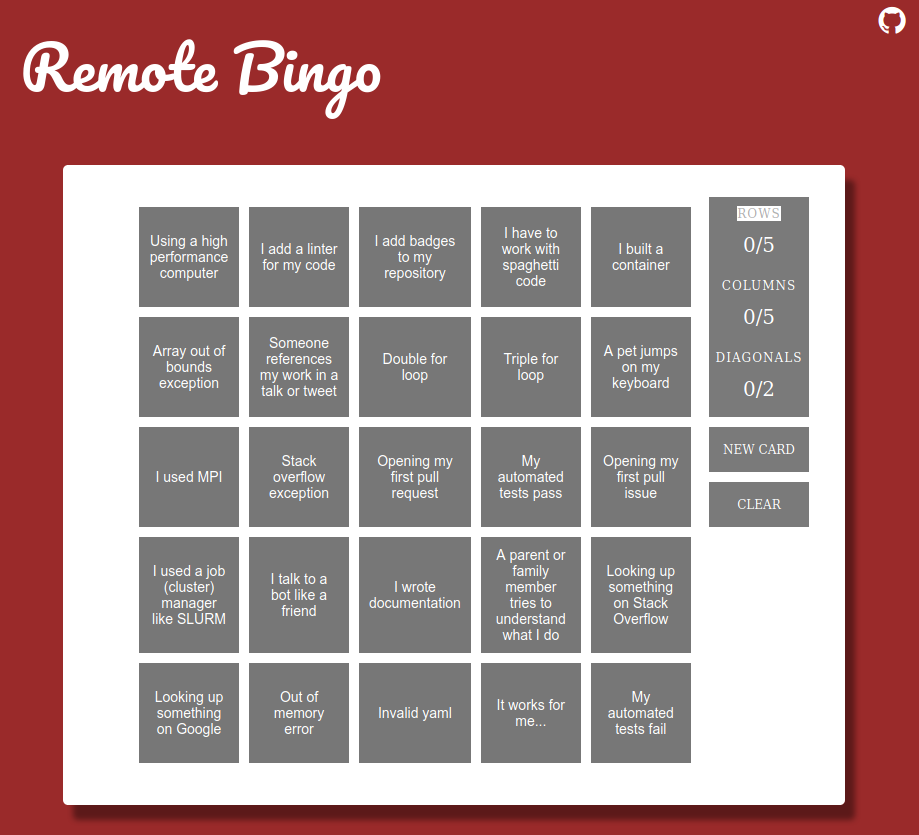
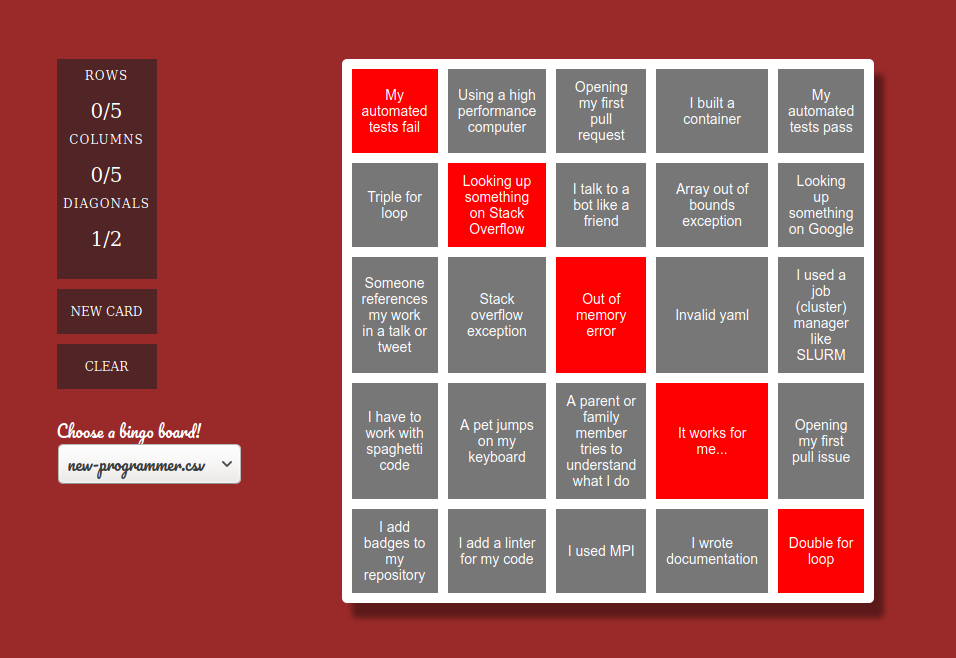
adding crypto privacy and developer boards, making interface responsive

diff --git a/index.html b/index.html
@@ -3,46 +3,49 @@
 <head>
     <meta charset="UTF-8">
     <title>Remote Bingo</title>
-    <link rel="stylesheet" href="assets/css/style.css">  
+    <link rel="stylesheet" href="https://stackpath.bootstrapcdn.com/bootstrap/4.3.1/css/bootstrap.min.css">
     <link rel="stylesheet" href="https://stackpath.bootstrapcdn.com/font-awesome/4.7.0/css/font-awesome.min.css">
+    <link rel="stylesheet" href="assets/css/style.css">  
 </head>
 
 <body>
     <meta name="viewport" content="width=device-width, initial-scale=1.0">
-
     <h1 class="page-title">Remote Bingo</h1>
-
     <div class="top-right">
         <a href="https://www.github.com/rseng/remote-bingo" target="_blank">
            <i style='color:white'class="fa fa-2x fa-github"></i></a>
     </div>
-    <div class="container" style="height:600px;">
-<div id="wrapper">
-  <table id="card">
-   <!--rows and columns will be added here-->
-  </table>
-  <div id="menu">
-    <div id="scoreboard">
-      <p class="title">ROWS</p>
-      <p class="score"><span id="scoreRow">0</span>/5</p>
-      <p class="title">COLUMNS</p>
-      <p class="score"><span id="scoreCol">0</span>/5</p>
-      <p class="title">DIAGONALS</p>
-      <p class="score"><span id="scoreDiag">0</span>/2</p>
+
+<div class="container">
+  <div class="row" style="padding-top:100px">
+    <div class="col-md-3">
+      <div id="menu">
+        <div id="scoreboard">
+          <p class="title">ROWS</p>
+          <p class="score"><span id="scoreRow">0</span>/5</p>
+          <p class="title">COLUMNS</p>
+          <p class="score"><span id="scoreCol">0</span>/5</p>
+          <p class="title">DIAGONALS</p>
+          <p class="score"><span id="scoreDiag">0</span>/2</p>
+        </div>
+        <button class="cardFunction" id="newCard">NEW CARD</button><br>
+        <button class="cardFunction" id="cleanCard">CLEAR</button>
+
+        <div style="color:white; padding-top:30px;">Choose a bingo board!</div>
+        <div id="selectList" style="width:200px; padding-bottom:30px"></div>
+      </div>
+     </div>
+    <div class="col-md-9">
+      <table id="card" class="board">
+      <!--rows and columns will be added here-->
+      </table>
     </div>
-    <button class="cardFunction" id="newCard">NEW CARD</button>
-    <button class="cardFunction" id="cleanCard">CLEAR</button>
-    </div>
-  </div>  
+  </div>
 </div>
-<div class="container"> <span style="float:right">Choose a bingo board!</span>
-    <div id="selectList" style="width:200px;">
-    </div>
-</div>
-    </div>
-    <script src="https://cdnjs.cloudflare.com/ajax/libs/jquery/2.1.4/jquery.min.js"></script>
-    <script  src="assets/js/remote-bingo.js"></script>
-    <script src="https://cdnjs.cloudflare.com/ajax/libs/notify/0.4.2/notify.min.js"></script>
-    <script  src="assets/js/index.js"></script>
+
+<script src="https://cdnjs.cloudflare.com/ajax/libs/jquery/2.1.4/jquery.min.js"></script>
+<script  src="assets/js/remote-bingo.js"></script>
+<script src="https://cdnjs.cloudflare.com/ajax/libs/notify/0.4.2/notify.min.js"></script>
+<script  src="assets/js/index.js"></script>
 </body>
 </html>

diff --git a/assets/js/index.js b/assets/js/index.js
@@ -5,6 +5,8 @@ $(document).ready(function() {
     bingo.load_csv("remote-bingo.csv")
     bingo.add_bingo_list("bingo-lists/new-programmer.csv")
     bingo.add_bingo_list("bingo-lists/quarantine-cooking.csv")
+    bingo.add_bingo_list("bingo-lists/developer.csv")
+    bingo.add_bingo_list("bingo-lists/crypto-privacy.csv")
     bingo.add_bingo_list("bingo-lists/indoor-activities.csv")
     bingo.add_bingo_list("bingo-lists/virtual-conference.csv")
     bingo.add_bingo_list("bingo-lists/cookies.csv")

diff --git a/assets/css/style.css b/assets/css/style.css
@@ -27,14 +27,9 @@ lightcoral
 lightpink
 mistyrose*/
 
-.container {
+.board {
   border-radius:5px;
-  display: block;
-  width: 40%;
-  margin: 0px auto;
-  margin-top: 5%;
   background: #fff;
-  padding: 20px;
   box-shadow: 10px 15px 5px rgba(0,0,0,0.4);
 }
 .page-title {
@@ -239,13 +234,6 @@ h1 {
   background: #000000;
 }
 
-#menu {
-  position: relative;
-  left: 580px;
-  width: 100px;
-  height: 540px;
-  padding-top: 0px;
-}
 #menu #scoreboard {
   height: 220px;
   width: 100px;

diff --git a/README.md b/README.md
@@ -121,8 +121,23 @@ COVID-19, and general conference calls.
 ![img/cookies.png](img/cookies.png)
 
 
+### Crypto Privacy
+
+Thanks to [bcrypt](https://twitter.com/bcrypt/status/1286763370213859328) on Twitter for these card entries!
+
+![img/crypto-privacy.png](img/crypto-privacy.png)
+
+### Developer
+
+Thanks to [Kat Maddox](https://twitter.com/ctrlshifti/status/1285733114615037953) for creating this original
+card on Twitter!
+
+![img/developer.png](img/developer.png)
+
+
 ## Thank you!
 
 Thank you to [A Game of Dabs](https://codepen.io/nbrombal/pen/JAedG) on Codepen
 that I was able to refactor into a Vue.js application to serve a custom board.
-I'm terrible at JavaScript and this example was exactly what I needed to get started.
+I'm terrible at JavaScript and this example was exactly what I needed to get started. If you
+would like to add a board or items for a category, please don't hesitate to open a pull request.
